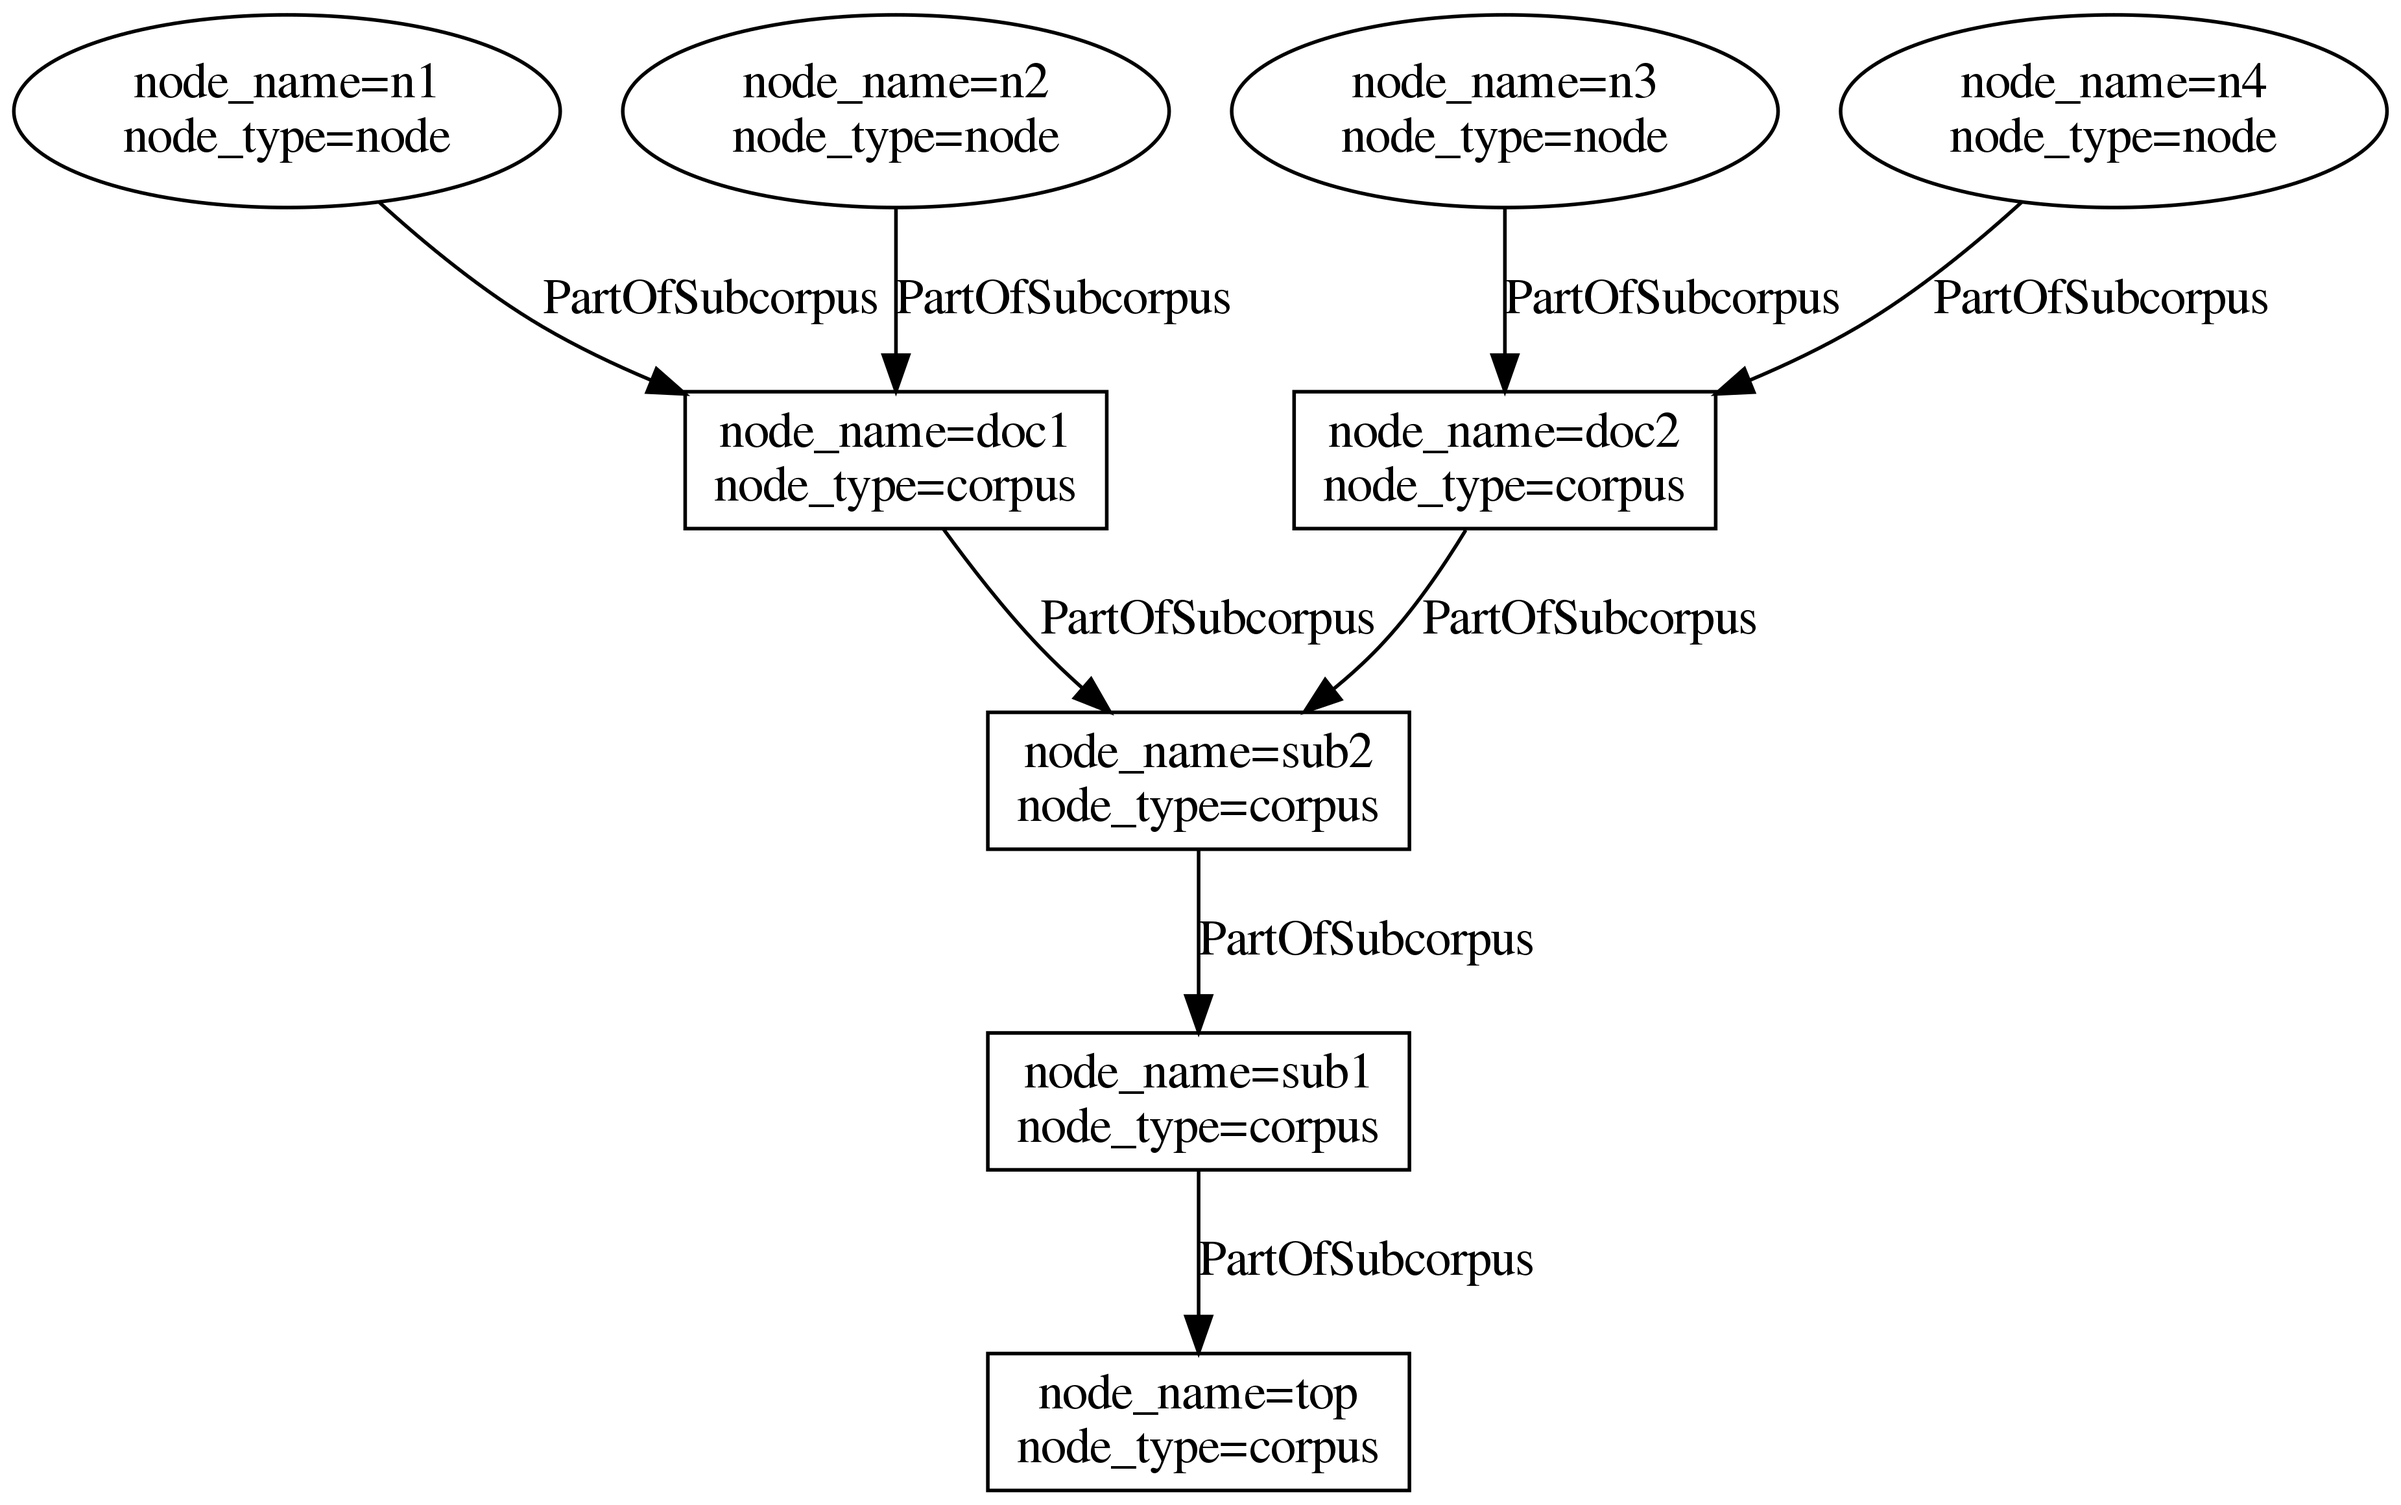
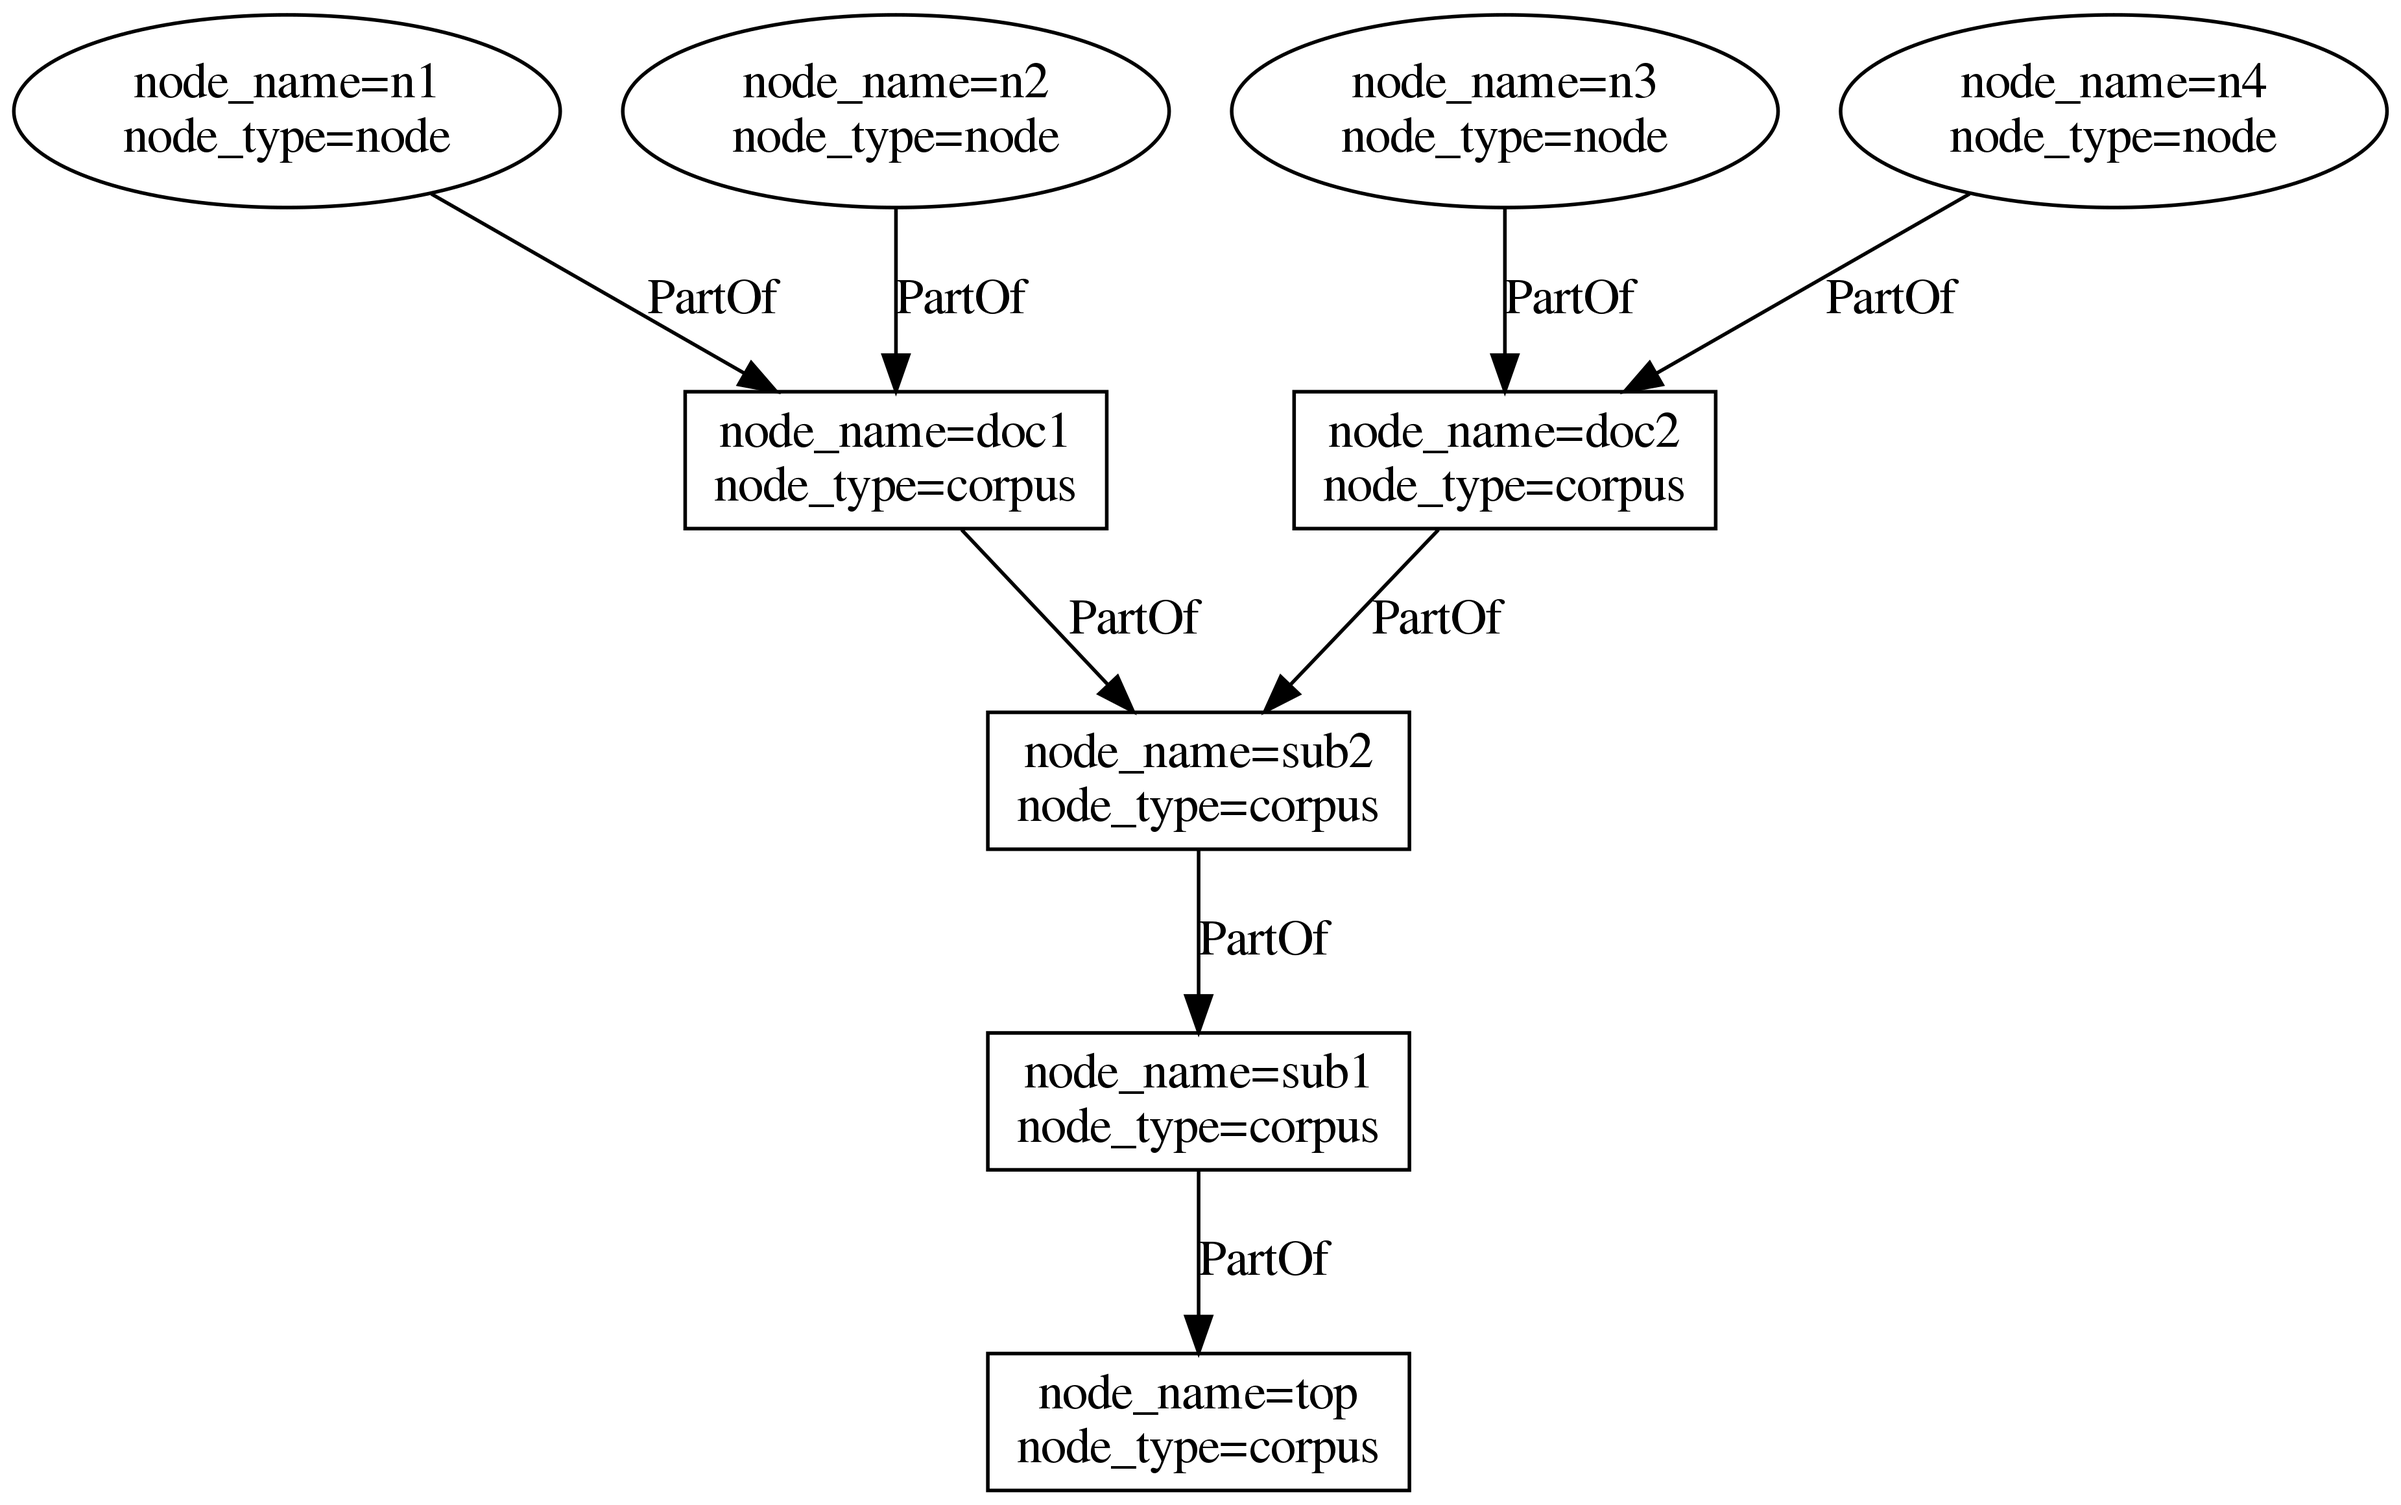
Rename the "PartOfSubcorpus" component type to more general "PartOf"

diff --git a/src/annis/db/relannis.rs b/src/annis/db/relannis.rs
@@ -1299,7 +1299,7 @@ where
                     source_node: subcorpus_full_name.clone(),
                     target_node: corpus_table.toplevel_corpus_name.to_owned(),
                     layer: ANNIS_NS.to_owned(),
-                    component_type: ComponentType::PartOfSubcorpus.to_string(),
+                    component_type: ComponentType::PartOf.to_string(),
                     component_name: String::default(),
                 },
                 Some(msg),
@@ -1349,7 +1349,7 @@ where
                     source_node: text_full_name.clone(),
                     target_node: subcorpus_full_name,
                     layer: ANNIS_NS.to_owned(),
-                    component_type: ComponentType::PartOfSubcorpus.to_string(),
+                    component_type: ComponentType::PartOf.to_string(),
                     component_name: String::default(),
                 },
                 Some(msg),
@@ -1364,7 +1364,7 @@ where
                             source_node: id_to_node_name.get(n).ok_or("Missing node name")?.clone(),
                             target_node: text_full_name.clone(),
                             layer: ANNIS_NS.to_owned(),
-                            component_type: ComponentType::PartOfSubcorpus.to_string(),
+                            component_type: ComponentType::PartOf.to_string(),
                             component_name: String::default(),
                         },
                         Some(msg),

diff --git a/src/annis/db/aql/operators/edge_op.rs b/src/annis/db/aql/operators/edge_op.rs
@@ -536,7 +536,7 @@ impl BinaryOperatorSpec for PartOfSubCorpusSpec {
     fn necessary_components(&self, _db: &Graph) -> HashSet<Component> {
         let mut components = HashSet::default();
         components.insert(Component {
-            ctype: ComponentType::PartOfSubcorpus,
+            ctype: ComponentType::PartOf,
             layer: String::from(ANNIS_NS),
             name: String::from(""),
         });
@@ -545,7 +545,7 @@ impl BinaryOperatorSpec for PartOfSubCorpusSpec {
 
     fn create_operator(&self, db: &Graph) -> Option<Box<BinaryOperator>> {
         let components = vec![Component {
-            ctype: ComponentType::PartOfSubcorpus,
+            ctype: ComponentType::PartOf,
             layer: String::from(ANNIS_NS),
             name: String::from(""),
         }];

diff --git a/src/annis/db/mod.rs b/src/annis/db/mod.rs
@@ -360,7 +360,7 @@ impl Graph {
     }
 
     /// Create a new instance without any location on the disk but with the default graph storage components
-    /// (Coverage, Order, LeftToken, RightToken, PartOfSubcorpus).
+    /// (Coverage, Order, LeftToken, RightToken, PartOf).
     fn with_default_graphstorages() -> Result<Graph> {
         let mut db = Graph::new();
         db.get_or_create_writable(&Component {
@@ -384,7 +384,7 @@ impl Graph {
             name: "".to_owned(),
         })?;
         db.get_or_create_writable(&Component {
-            ctype: ComponentType::PartOfSubcorpus,
+            ctype: ComponentType::PartOf,
             layer: ANNIS_NS.to_owned(),
             name: "".to_owned(),
         })?;

diff --git a/src/annis/db/corpusstorage.rs b/src/annis/db/corpusstorage.rs
@@ -1276,7 +1276,7 @@ impl CorpusStorage {
             // make sure all subcorpus partitions are loaded
             let lock = db_entry.read().unwrap();
             let db = get_read_or_error(&lock)?;
-            db.get_all_components(Some(ComponentType::PartOfSubcorpus), None)
+            db.get_all_components(Some(ComponentType::PartOf), None)
         };
         let db_entry = self.get_loaded_entry_with_components(corpus_name, subcorpus_components)?;
 
@@ -1292,7 +1292,7 @@ impl CorpusStorage {
             &query.into_disjunction(),
             &[0],
             &self.query_config,
-            Some(ComponentType::PartOfSubcorpus),
+            Some(ComponentType::PartOf),
         )
     }
 

diff --git a/src/annis/types.rs b/src/annis/types.rs
@@ -109,8 +109,8 @@ pub enum ComponentType {
     LeftToken,
     /// Explicit edge between any non-token node and the right-most token it covers.
     RightToken,
-    /// Implies that the source node belongs to the parent corpus/subcorpus/document node.
-    PartOfSubcorpus,
+    /// Implies that the source node belongs to the parent corpus/subcorpus/document/datasource node.
+    PartOf,
 }
 
 impl fmt::Display for ComponentType {

diff --git a/include/graphannis-capi.h b/include/graphannis-capi.h
@@ -50,9 +50,9 @@ typedef enum {
    */
   RightToken,
   /*
-   * Implies that the source node belongs to the parent corpus/subcorpus/document node.
+   * Implies that the source node belongs to the parent corpus/subcorpus/document/datasource node.
    */
-  PartOfSubcorpus,
+  PartOf,
 } AnnisComponentType;
 
 /*

diff --git a/docs/src/annotation-graph.md b/docs/src/annotation-graph.md
@@ -35,7 +35,7 @@ GraphANNIS has two kinds of nodes:
 
 They are both parts of the same graph structure but are distinguished by the special label "annis::node_type".
 It can either have the value "node" for nodes belonging to the annotation graph or "corpus" for nodes belonging to the corpus graph.
-Nodes that belong to a corpus graph are connected with edges that belong to a component of the type `PartOfSubcorpus`.
+Nodes that belong to a corpus graph are connected with edges that belong to a component of the type `PartOf`.
 The source node is always the node that is part of the (sub-) corpus, and the target node is the node which is higher in the corpus graph hierarchy.
 
 ![Example corpus graph representation in graphANNIS](images/corpusgraph.png)

diff --git a/CHANGELOG.md b/CHANGELOG.md
@@ -9,6 +9,10 @@ and this project adheres to [Semantic Versioning](https://semver.org/spec/v2.0.0
 
 - Citation File Format (https://citation-file-format.github.io/) meta-data
 
+### Changed
+
+- Renamed the "PartOfSubcorpus" component type to more general "PartOf"
+
 ## [0.18.1] - 2019-02-08
 
 ### Changed
